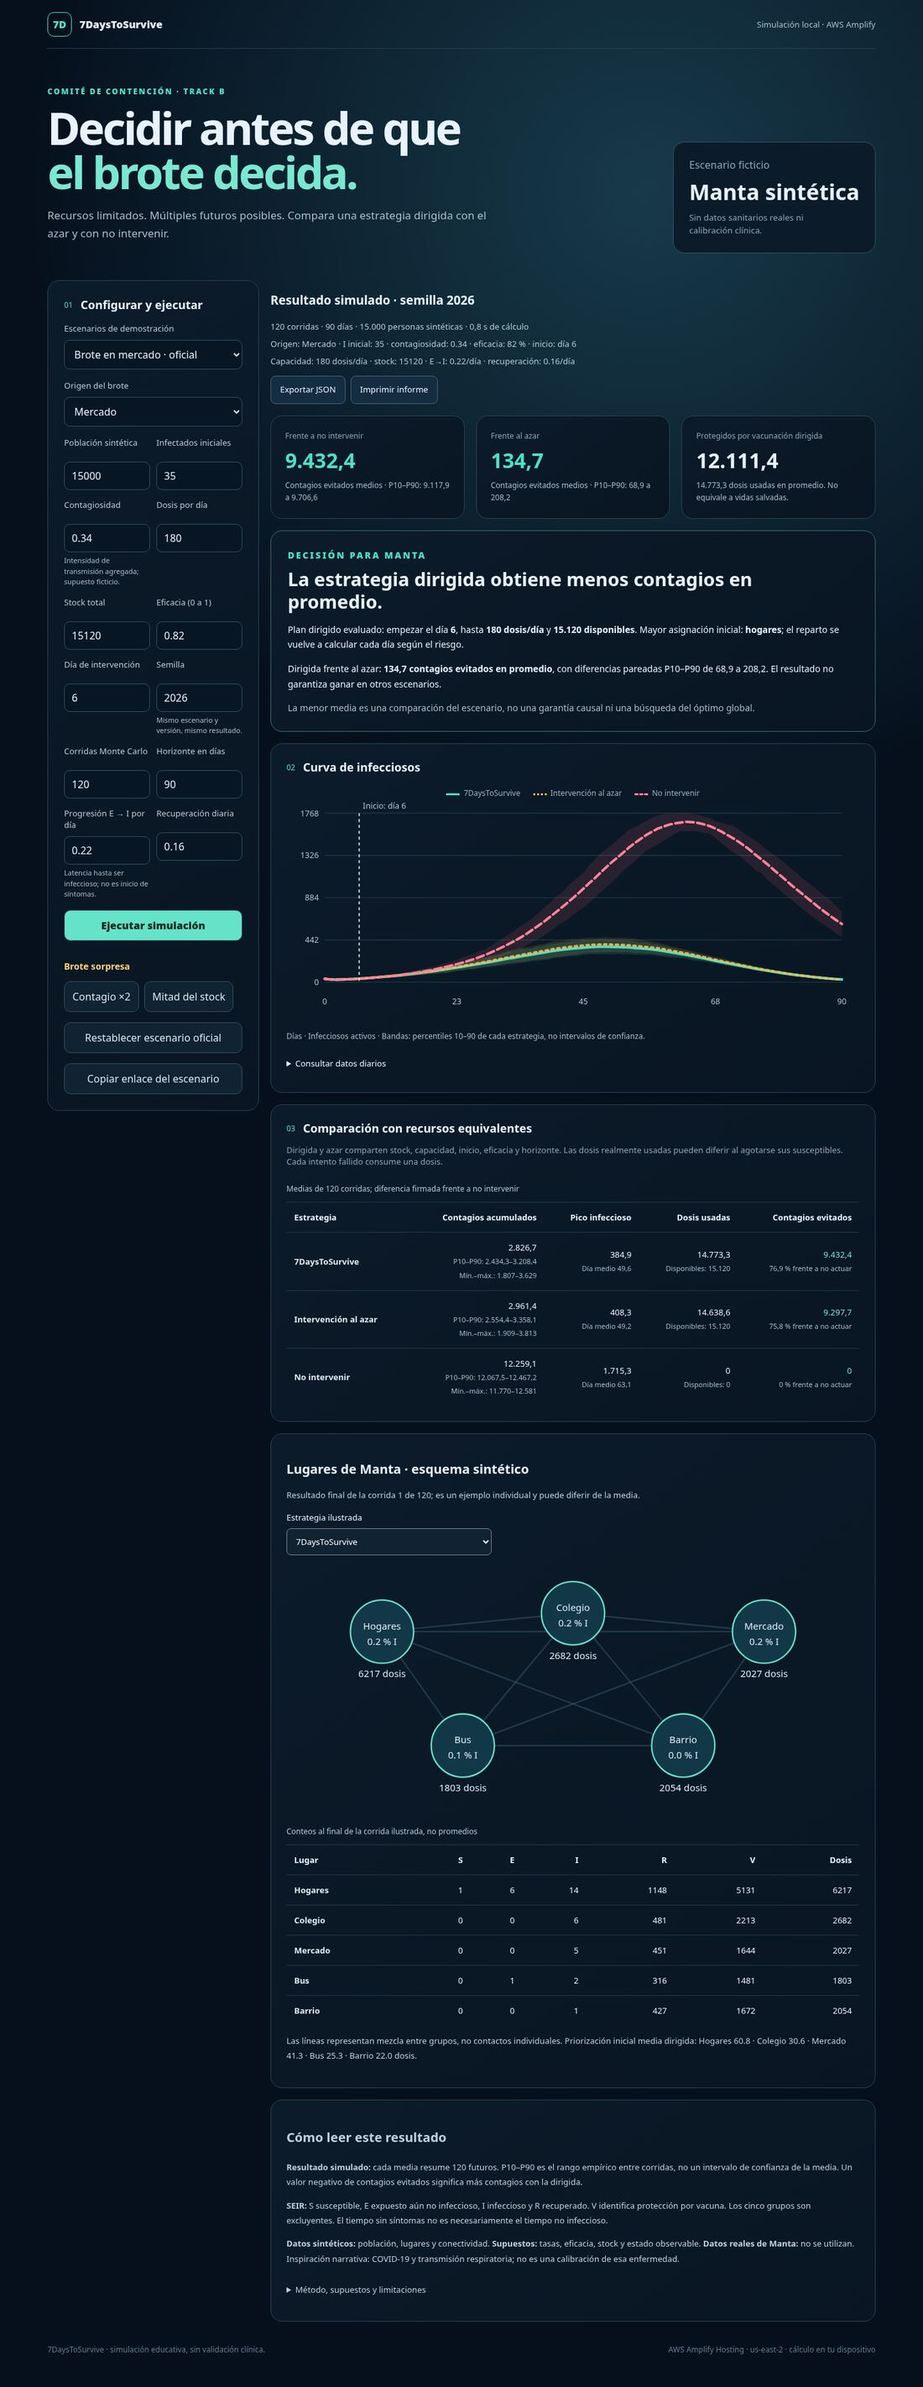
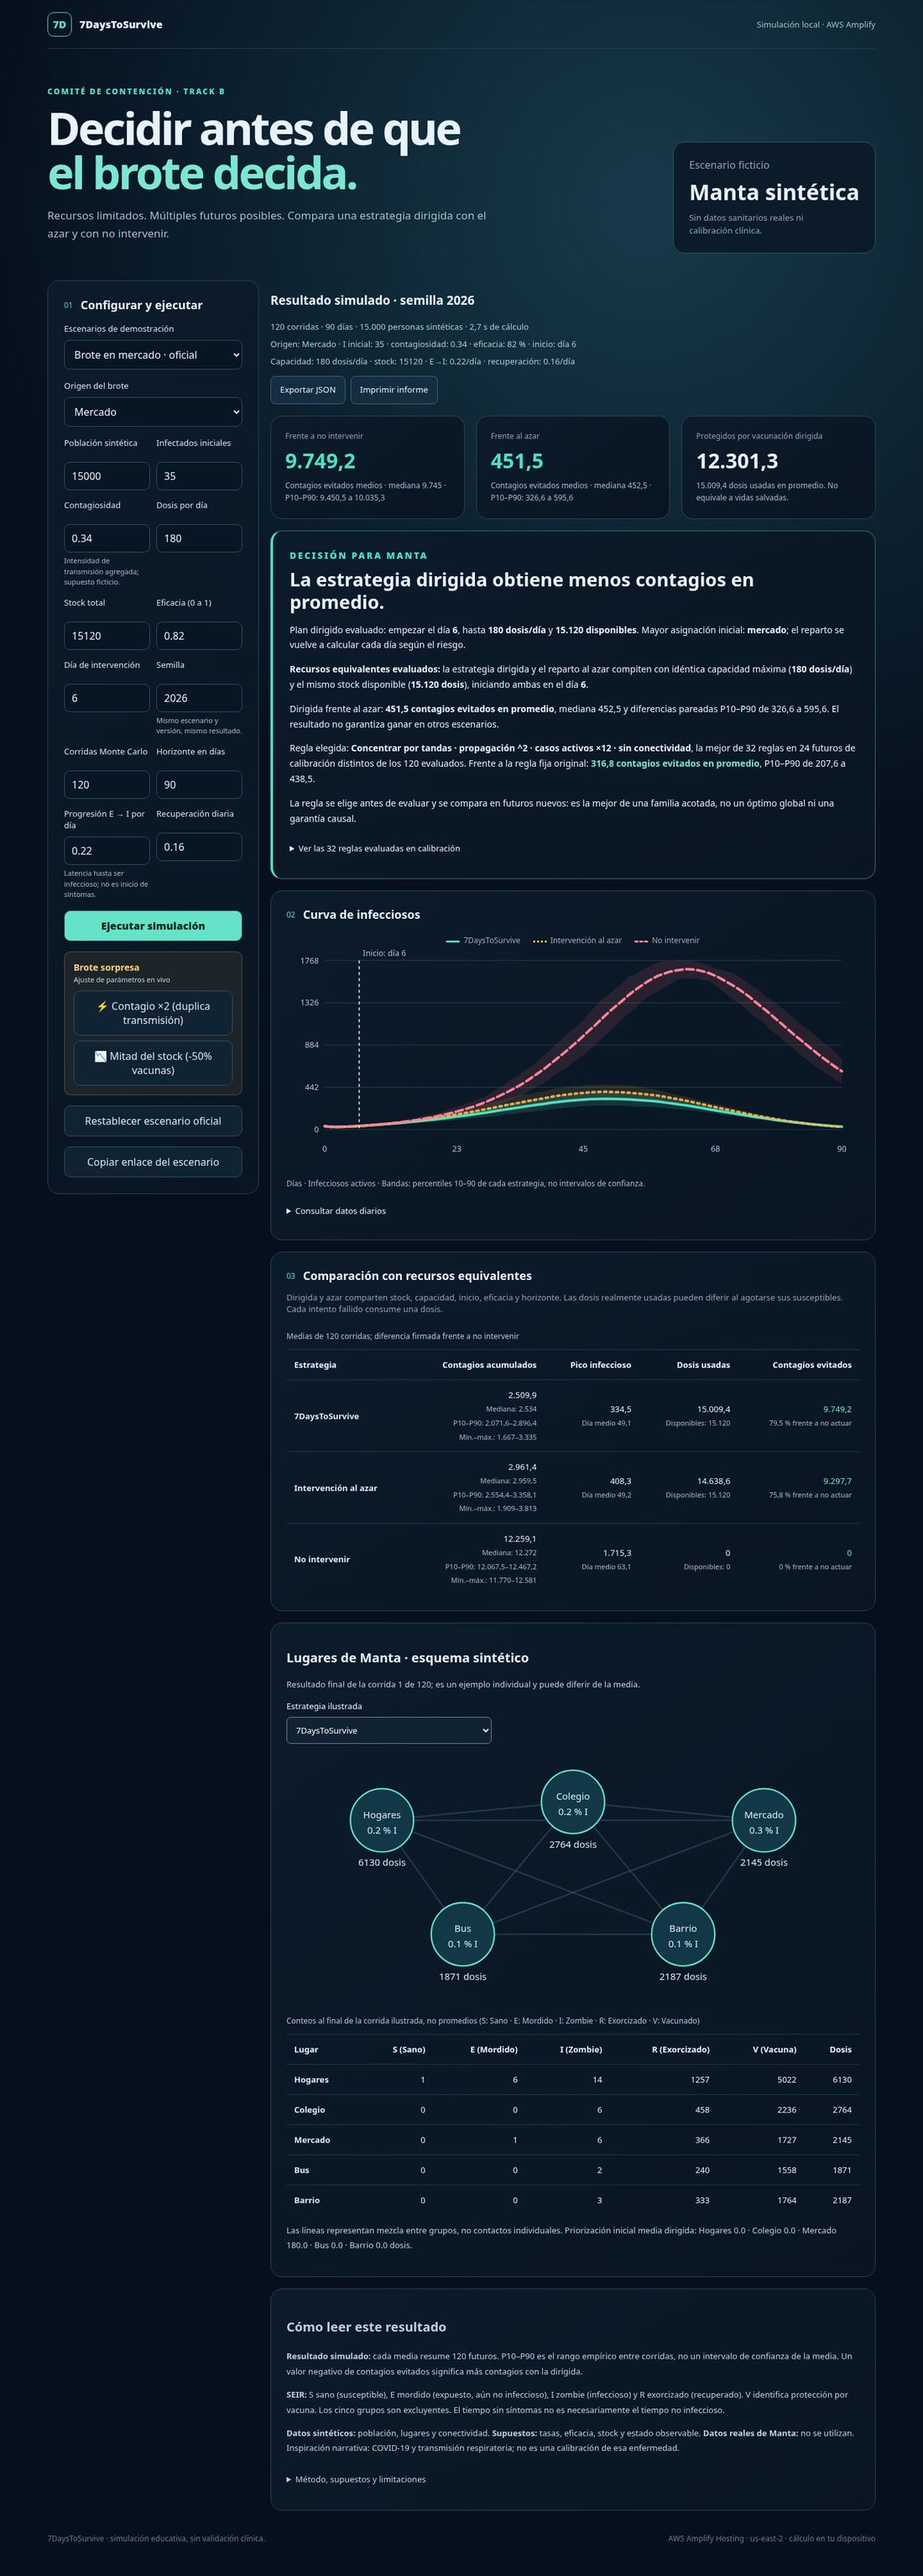
docs: record the verified public deploy of seir-places-3.0.0
Amplify published d4aea38 (PR #4) at 16:08:29 UTC. Against the public
URL the acceptance suite passed 11/11 with no page errors, served assets
match the local build, and the production Worker returns the same
official figures as the local run: 451.49 avoided versus random,
9749.19 versus no intervention and 316.76 versus the former rule.

diff --git a/docs/plan-ganar.md b/docs/plan-ganar.md
@@ -54,7 +54,7 @@ Rúbrica de la prueba de fuego (40 % de la nota total):
 
 Pendientes antes del pitch:
 1. Ensayar el Brote Sorpresa con al menos tres variaciones (contagio ×2, mitad stock, cambio de origen).
-2. Verificar que la demo pública responde en la URL: https://main.d3kt9g5gofzhxh.amplifyapp.com/ — verificada el 30/10 con 11/11 comprobaciones; repetir tras integrar 3.0.0.
+2. Verificar que la demo pública responde en la URL: https://main.d3kt9g5gofzhxh.amplifyapp.com/ — verificada con 3.0.0 tras el PR #4: 11/11 comprobaciones.
 3. Comprobar con el titular el correo de Budget y el gasto actualizado.
 4. ~~Tener la presentación PDF/PPTX lista (docs/presentacion.html → imprimir a PDF).~~ Hecho: [presentacion.pdf](presentacion.pdf), 10 páginas de 1920×1080, generado con `scripts/export-presentation.cjs`.
 
@@ -65,9 +65,9 @@ Pendientes antes del pitch:
 | Estrategia que optimiza | Cumple | Búsqueda entre 32 reglas en 24 futuros de calibración separados; `seir-places-3.0.0` |
 | Media, mediana y P10–P90 | Cumple | Tabla, métricas y decisión muestran la mediana |
 | Impacto frente al azar, escenario oficial | 451,5 contagios evitados (antes 134,7) | [sensibilidad.json](evidencia/sensibilidad.json): 40/40 experimentos positivos |
-| Demo pública verificada | `a165890` (2.0.0), 11/11 | [verificacion.json](evidencia/aws/verificacion.json) |
+| Demo pública verificada | `d4aea38` (3.0.0) publicado a las 16:08 UTC, 11/11 y mismas cifras que en local | [verificacion.json](evidencia/aws/verificacion.json) |
 
-Tras integrar en `main`: esperar el despliegue de Amplify, repetir `scripts/verify-ui.cjs` contra la URL pública y actualizar la tabla. Siguen pendientes, por parte del titular de la cuenta AWS: verificar el correo del Budget y registrar el gasto final.
+Integrado en `main` con el PR #4 y verificado en la URL pública tras el despliegue de Amplify. Siguen pendientes, por parte del titular de la cuenta AWS: verificar el correo del Budget y registrar el gasto final.
 
 Este documento sustituye el roadmap anterior, que mezclaba tareas ya completadas y propuestas. Método completo en docs/modelo.md y recorrido en docs/demo.md.
 

diff --git a/README.md b/README.md
@@ -77,7 +77,7 @@ El stack S3/CloudFront y el script PowerShell del repositorio son una alternativ
 | Semilla | 2026 | Valor público para reproducir el resultado |
 | Monte Carlo | 120 corridas | Balance entre estabilidad y respuesta inmediata en el navegador |
 
-Para reproducir esta versión: pulsar **Restablecer escenario oficial**, confirmar semilla `2026` y pulsar **Ejecutar simulación**. Los controles editados no cambian resultados anteriores. Exportar JSON conserva configuración, resultado, regla elegida y versión `seir-places-3.0.0`; la duración queda fuera del resultado reproducible. La demo pública verificada el 30/10/2026 sirve `a165890` con `seir-places-2.0.0`: Amplify entrega los mismos archivos que el build local y la batería de navegador pasó 11/11 comprobaciones contra la URL de AWS ([evidencia](docs/evidencia/aws/verificacion.json)). La versión 3.0.0 se publica al integrar esta rama en `main`; después hay que repetir la verificación.
+Para reproducir esta versión: pulsar **Restablecer escenario oficial**, confirmar semilla `2026` y pulsar **Ejecutar simulación**. Los controles editados no cambian resultados anteriores. Exportar JSON conserva configuración, resultado, regla elegida y versión `seir-places-3.0.0`; la duración queda fuera del resultado reproducible. La demo pública sirve `seir-places-3.0.0` desde el 30/10/2026, 16:08 UTC (fusión `d4aea38`, PR #4). Amplify entrega los mismos archivos que el build local, la URL da las mismas cifras oficiales (451,5 evitados frente al azar) y la batería de navegador pasó 11/11 comprobaciones contra ella ([evidencia](docs/evidencia/aws/verificacion.json)).
 
 Los números son parámetros educativos, no predicciones clínicas. La inspiración narrativa es COVID-19; sus tasas no calibran este modelo. [Método y fuentes](docs/modelo.md).
 

diff --git a/docs/infraestructura.md b/docs/infraestructura.md
@@ -32,11 +32,12 @@ La configuración del repositorio `amplify.yml` tiene prioridad sobre la configu
 
 | Dato | Valor |
 |---|---|
-| Fecha | 30/10/2026, 15:50 UTC |
-| Commit publicado | `a165890` (fusión del PR #3) |
-| Algoritmo | `seir-places-2.0.0` |
-| Método | `index.html` y nombres con hash de `dist/assets` idénticos al build local; `node scripts/verify-ui.cjs` con `UI_BASE_URL` apuntando a la demo |
-| Resultado | 11/11 comprobaciones, sin errores de página |
+| Fecha | 30/10/2026, 16:09 UTC (Amplify publicó a las 16:08:29 UTC, dos minutos después de fusionar) |
+| Commit publicado | `d4aea38` (fusión del PR #4) |
+| Algoritmo | `seir-places-3.0.0` |
+| Método | `index.html` y nombres con hash de `dist/assets` idénticos al build local; `node scripts/verify-ui.cjs` con `UI_BASE_URL` apuntando a la demo; lectura del resultado oficial desde el Worker de producción |
+| Resultado | 11/11 comprobaciones, sin errores de página; 451,49 evitados frente al azar, 9.749,19 frente a no intervenir y 316,76 frente a la regla fija, idénticos al cálculo local; 2,5–2,7 s de cálculo |
+| Verificación anterior | `a165890` (`seir-places-2.0.0`), 15:50 UTC, 11/11 |
 | Evidencia | [verificacion.json](evidencia/aws/verificacion.json), [escritorio](evidencia/aws/escritorio.jpg), [móvil](evidencia/aws/movil.jpg) |
 
 Repetir tras cada integración en `main`, una vez que Amplify termine:
